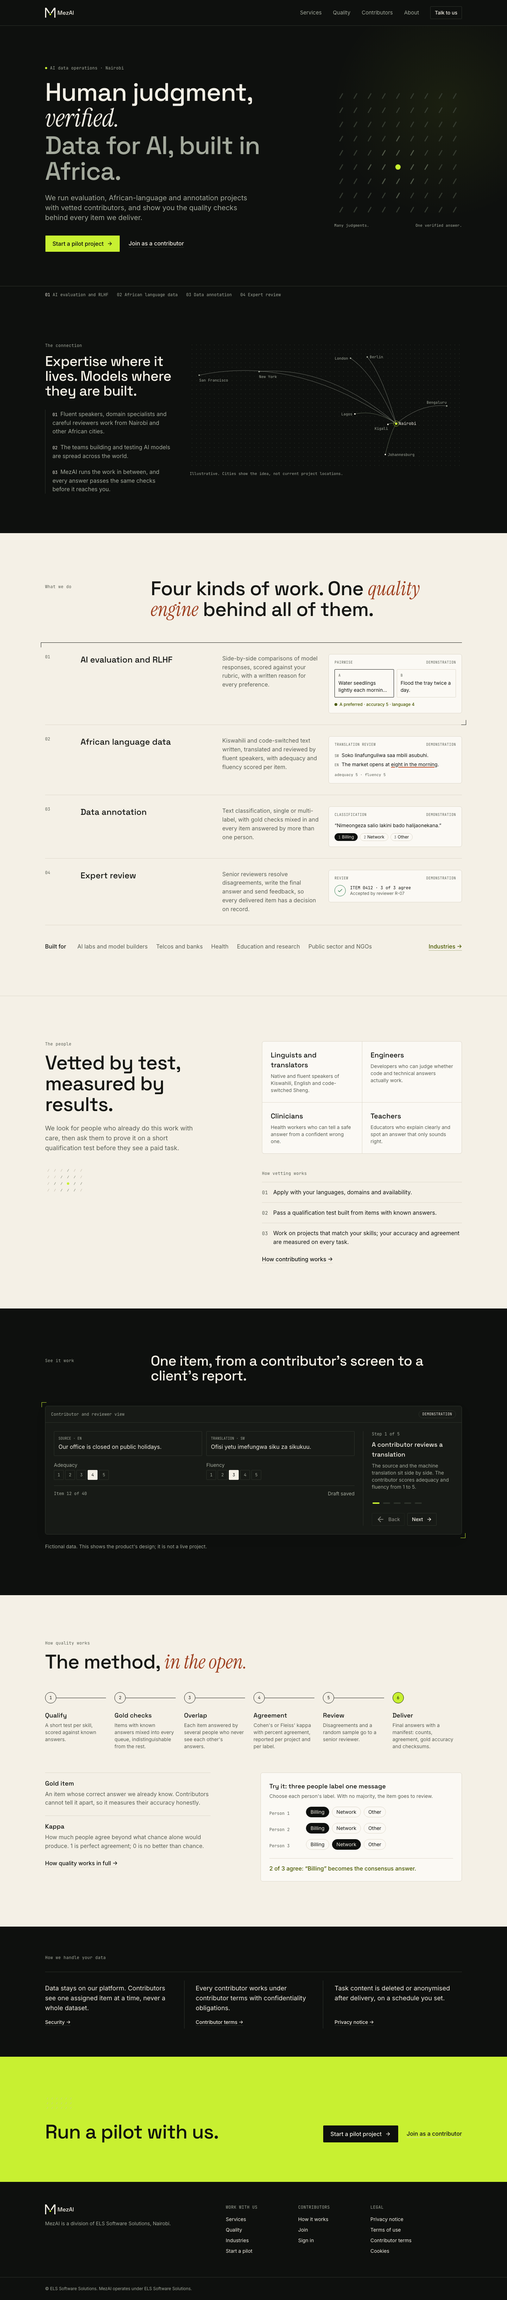
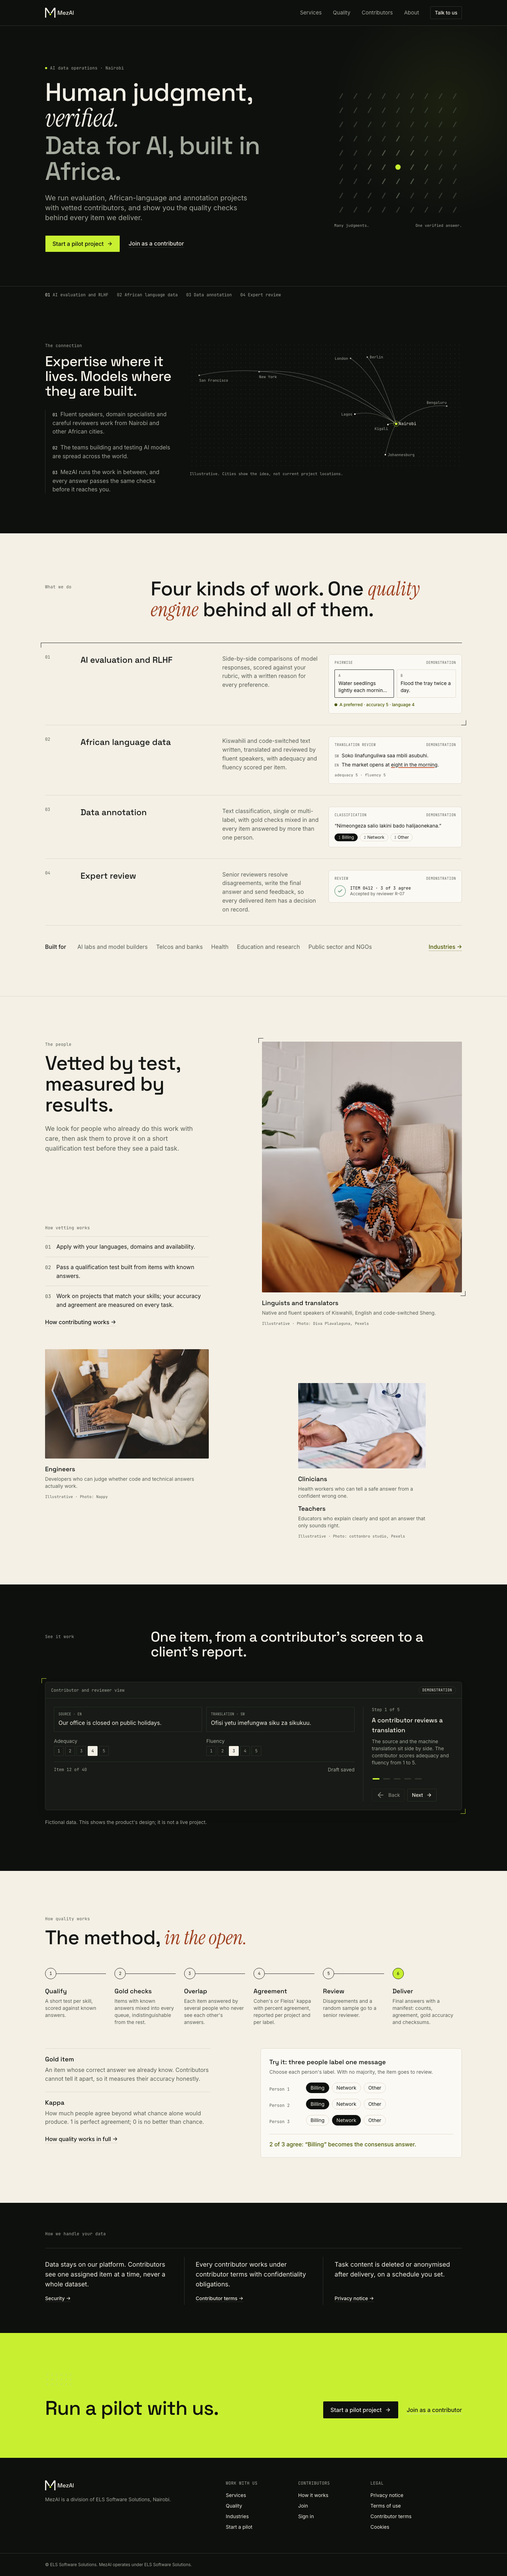
docs: record photo credits, D-053, A-028 and Lighthouse after photos

Changed region(s): [[0.0, 0.0311, 1.0, 0.9959], [0.1562, 0.3112, 0.1875, 0.3423]]

diff --git a/docs/content/image-credits.md b/docs/content/image-credits.md
@@ -4,4 +4,21 @@ Every photo or video on the site has a row here (DESIGN.md section 8). Stock ima
 
 | File | Photographer | Source | Page link | Licence | Downloaded | Used on |
 |---|---|---|---|---|---|---|
-| _example: home-people-main.jpg_ | _Jane Doe_ | _Unsplash_ | _https://unsplash.com/photos/..._ | _Unsplash Licence_ | _2026-11-05_ | _Home, The people_ |
+| home-people-main.jpg → `frontend/content/images/people-linguist.jpg` | Diva Plavalaguna* | Pexels | https://www.pexels.com/photo/5711687/ | Pexels License | 2026-11-03 | Home, The people (large) |
+| home-people-engineer.jpg → `frontend/content/images/people-engineer.jpg` | **Needed** | Nappy | **Needed** | Nappy licence (to confirm) | 2026-11-03 | Home, The people |
+| industry-health.jpg → `frontend/content/images/people-clinician.jpg` | cottonbro studio* | Pexels | https://www.pexels.com/photo/7578814/ | Pexels License | 2026-11-03 | Home, The people (in place of H3) |
+| about-meza.jpg | MART PRODUCTION* | Pexels | https://www.pexels.com/photo/7255284/ | Pexels License | 2026-11-03 | About (Stage 6) |
+| contributors-detail.jpg | Plann* | Pexels | https://www.pexels.com/photo/4549413/ | Pexels License | 2026-11-03 | Contributors (Stage 6, crop out the laptop name) |
+
+\* Name read from the download file name (Pexels blocks automated page checks). Confirm the display name on the page link.
+
+Originals live only in `docs/content/images/` on your machine (ignored by git; re-download from the page link). `frontend/scripts/prepare-photos.mjs` crops them to the web masters in `frontend/content/images/`, which are committed.
+
+## Not used
+
+| File | Source | Why |
+|---|---|---|
+| home-people-review.jpg | Pexels 5407205 | Ornate European interior and pill packs; reads as pharmacy stock, not work in an African city. `industry-health.jpg` fits H3 better. |
+| contributors-band.jpg | Pexels 889996 | An empty office: C1 asks for several people working. |
+| industry-education.jpg | Pexels 9159054 | A posed portrait looking at the camera, arms crossed. |
+| industry-telco-bank.jpg | Pexels 8866823 | Black and white, a smiling mouth in close-up; the brief asks for warm colour and no smiles to camera. |

diff --git a/docs/ASSUMPTIONS.md b/docs/ASSUMPTIONS.md
@@ -27,7 +27,8 @@ Defaults in use until Dan answers. When an answer arrives, move it to `DECISIONS
 | A-021 | 2026-11-03 | Link lifetimes | Verification 24 hours, password reset 1 hour, invitation 7 days; a new invitation to the same address replaces the pending one | Open |
 | A-022 | 2026-11-03 | Inviting someone who already has an account | Refused (409 `email_in_use`); grant them a role instead | Open |
 | A-023 | 2026-11-03 | Pages behind the email links (`/reset-password`, `/verify-email`, `/accept-invitation`) and the user administration screens | Built with the first UI stage that needs them (Stage 7 for contributors, Stage 8 for the workspace); the API is ready now | Open |
-| A-024 | 2026-11-03 | Photos for frame 4 (the people) | None until credited photos are in `docs/content/` with `image-credits.md`; the frame is typographic and describes who we look for, not who our contributors are | Open |
+| A-024 | 2026-11-03 | Photos for frame 4 (the people) | None until credited photos are in `docs/content/` with `image-credits.md`; the frame is typographic and describes who we look for, not who our contributors are | Resolved 2026-11-04: photos arrived; frame 4 uses the photo spread (D-053) |
 | A-025 | 2026-11-03 | Cities on the network map | Nairobi, Lagos, Kigali, Johannesburg, London, Berlin, New York, San Francisco, Bengaluru, all labelled illustrative | Open |
 | A-026 | 2026-11-03 | Links on the home page to pages not built yet (Services, Quality, Contributors, Industries, Contact, legal) | Kept; they 404 until Stage 6 builds them, and the sitemap lists only built pages | Open |
 | A-027 | 2026-11-03 | Headline reveal | Lines rise from clip masks in CSS (not GSAP SplitText), so the hero never waits for a script; the storyboard's lines are fixed, so splitting by line needs no measuring | Open |
+| A-028 | 2026-11-04 | Photo originals (19 MB) | Kept out of git (`docs/content/images/` is ignored); credits link to each source page so they can be re-downloaded; only cropped web masters are committed | Open |

diff --git a/docs/DECISIONS.md b/docs/DECISIONS.md
@@ -56,3 +56,4 @@ Each decision has an ID, date, status and reason. "Proposed" means waiting for D
 | D-050 | 2026-11-03 | Motion's provider moves from the root layout to the routes that use Motion (`/design` now, product shells later). Public pages use CSS (hero, hovers, swaps) and GSAP loaded after idle (scroll stories). | Proposed | Lighthouse showed 186 KB of first-load JS on the home page against the 170 KB budget, 32 KB of it Motion's core, unused there. Now about 156 KB. Matches DESIGN.md: GSAP for marketing pages, Motion for interface. |
 | D-051 | 2026-11-03 | Home scroll motion: GSAP, ScrollTrigger, DrawSVG and MotionPath 3.15.0, imported in one client module after `requestIdleCallback`, skipped under reduced motion, scoped with `gsap.context` and `gsap.matchMedia` and reverted on unmount. It only animates elements still below the viewport. Desktop (1024 px and up) scrubs the network arcs with pulses; tablet and mobile draw them once on entry. | Proposed | DESIGN.md section 9. Content is complete before and without JavaScript. |
 | D-052 | 2026-11-03 | The product demonstration autoplays (4.5 s a step) only on screens 768 px and wider without reduced motion, only while in view, with a Pause/Play button; any manual step stops it. | Proposed | DESIGN.md frame 5 and WCAG 2.2.2 (pause, stop, hide). |
+| D-053 | 2026-11-04 | Frame 4 becomes the photo spread: one 4:5 and two 3:2 photos via `next/image` (static imports, blur placeholder, AVIF/WebP), each captioned with the skills it illustrates and "Illustrative · Photo: name, source". GSAP wipes them in from the bracket corner; nothing is hidden without JavaScript. `industry-health.jpg` replaces `home-people-review.jpg` as H3. | Done | Credited photos arrived (A-024). Captions never name a person or say "our contributors" (DESIGN.md section 8). |

diff --git a/docs/PROGRESS.md b/docs/PROGRESS.md
@@ -53,7 +53,7 @@ Read this first after `/clear`. Then read only what the next stage needs.
 | 4a | Merged | #16 | Login, logout, me; sessions (hashed tokens, idle and absolute expiry); CSRF; lockout; rate limits; route registry with access rules; audit writer; `make setup`. |
 | 4b | Merged | #17 | Password reset, email verification, invitations (staff and client admin), user and role administration with Super Admin protections, email outbox worker, AC-01 matrix test, AC-02 complete. |
 | 5a | Merged | #18 | Home frames 1 to 8 (static, reduced-motion form), public stats endpoint, cached stats with fallback, metadata, OG image, sitemap, robots. Fixed animation-delay under reduced motion. |
-| 5b | PR open | (see PR list) | CSS hero and hover motion, lazy GSAP scroll stories, demo autoplay with pause, Motion moved off public pages (JS 186 → 156 KB first load), Lighthouse mobile 93/100/96, photo brief. |
+| 5b | PR open | (see PR list) | CSS hero and hover motion, lazy GSAP scroll stories, demo autoplay with pause, Motion moved off public pages (JS 186 → 156 KB first load), Lighthouse mobile 93/100/96, photo brief, then the photo spread in frame 4 (D-053). |
 
 ## Notes for the next session
 

diff --git a/docs/screenshots/stage-05b/lighthouse.md b/docs/screenshots/stage-05b/lighthouse.md
@@ -12,3 +12,8 @@ Lighthouse 13.5.0, mobile preset (Moto G Power emulation, 4x CPU slowdown, slow 
 **JavaScript budget (170 KB on first load, lazy GSAP excluded):** about 156 KB on first load after moving Motion off public pages (D-050), down from 186 KB.
 
 **Frames while scrolling** (headless Chromium, CPU throttled 4x, `requestAnimationFrame` intervals over a full scroll): desktop with motion, mobile with motion and mobile with reduced motion all held a 16.7 ms median and p95, with no frame over 33 ms. Synthetic; not yet checked on a real mid-range Android.
+
+## After the photo spread (2026-11-04)
+
+Same setup, three runs: 93/100/96/69 (LCP 2.78 s, TBT 101 ms), 89/100/96/69 (3.39 s, 105 ms), 93/100/96/69 (2.78 s, 94 ms). Median: performance 93, LCP 2.78 s, TBT 101 ms, CLS 0.000, 457 KB total transfer. The LCP element is still the hero subline; the photos load lazily below the fold, served as AVIF (the 1920 px main photo is 86 KB). SEO fails only `is-crawlable`, the deliberate noindex.
+
